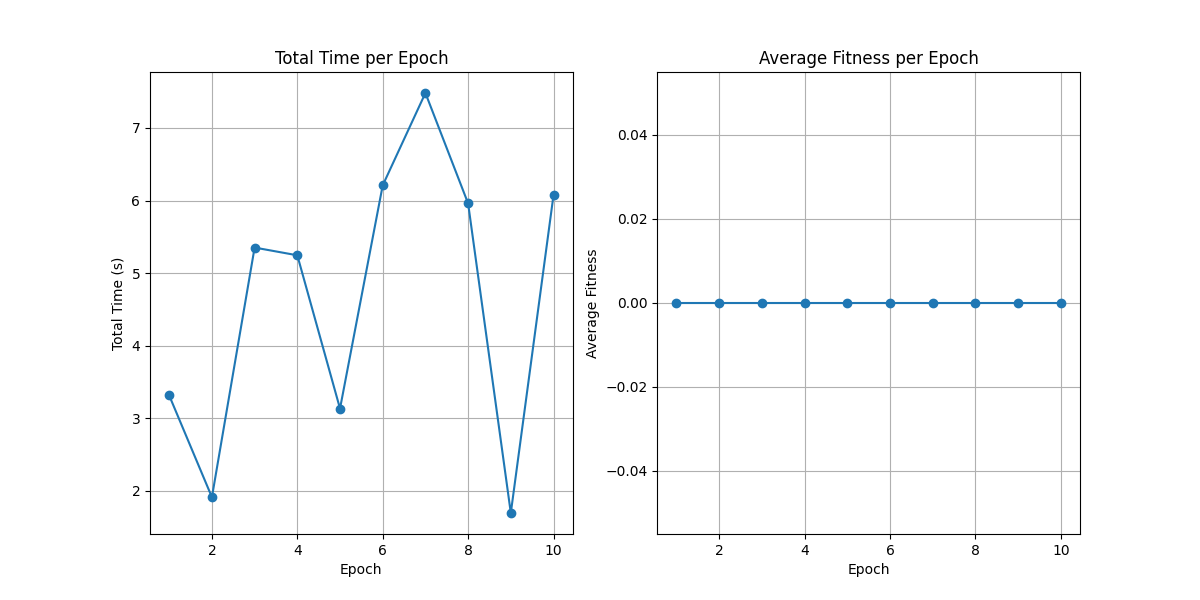
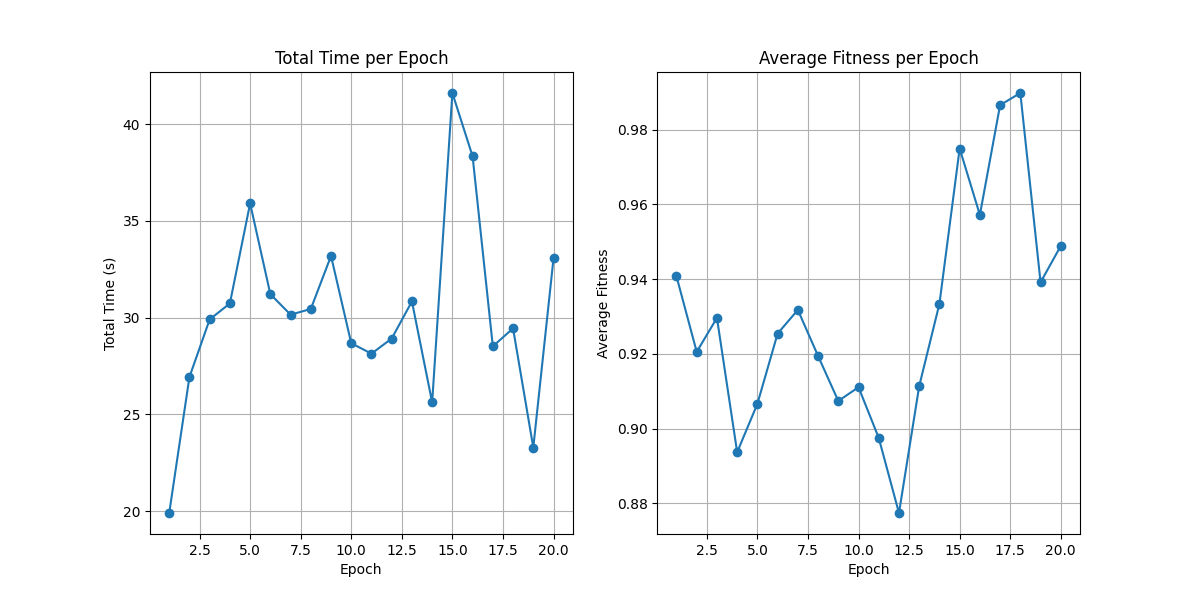
save fitness in result

diff --git a/main.py b/main.py
@@ -354,7 +354,7 @@ def delete_statement(chromosome, statement_id, statement):
 
 
 def mutate(chromosome):
-    w_mut = 0.06
+    w_mut = 0.1
     statement_count = chromosome.statement_count
     initial_statement_count = chromosome.initial_statement_count
     statements = chromosome.statements
@@ -448,7 +448,7 @@ def calculate_fitness(ast, problem_id, test_no, initial_prog):
     if similarity_percent == 1:
         result = {'fitness': 0, 'no_passed_tests': no_of_passed_tests}
     else:
-        result = {'fitness': percent_of_passed_tests + similarity_percent, 'no_passed_tests' : no_of_passed_tests}
+        result = {'fitness': (1+percent_of_passed_tests) * similarity_percent, 'no_passed_tests' : no_of_passed_tests}
     return result
 
 
@@ -532,7 +532,32 @@ def ag(submission_id, problem_id, program_path, population_size, no_epochs):
 
             offsprings.append(mutate(child1))
             offsprings.append(mutate(child2))
-
+#         textul = """int main() {
+#     int n, p, m, a[10001]={0}, b[10001]={0}, cont=0, x;
+#     scanf("%d%d", &n, &p);
+#     for (int i=1; i<=n; i++) {
+#         scanf("%d", &x);
+#         a[x]=a[x]+1;
+#     }
+#     scanf("%d", &m);
+#     for (int i=1; i<=m; i++) {
+#         scanf("%d", &x);
+#        	b[x]=b[x]+1;
+#     }
+#     for (int i=0; i<=10000; i++) {
+#         for (int j=0; j<=10000; j++) {
+#             if (i*j>=p)
+#             {
+#                 break;
+#             }
+#             cont+=a[i]*b[j];
+#         }
+#     }
+#     printf("%d", cont);
+#     return 0;
+# }"""
+#         if current_epoch==2:
+#             offsprings[0].ast=c_parser.CParser().parse(textul)
         for i in range(len(offsprings)):
             try:
                 offsprings[i].fitness = calculate_fitness(offsprings[i].ast, problem_id, 5, initial_prog)
@@ -563,6 +588,8 @@ def ag(submission_id, problem_id, program_path, population_size, no_epochs):
         average_time_per_epoch.append(elapsed_time)
         average_fitness_per_epoch.append(average_fitness / (len(new_population)))
         epochs.append(current_epoch)
+
+        print(str(current_epoch) + " "+str(len(new_population)))
 
         current_epoch += 1
 
@@ -607,9 +634,9 @@ if __name__ == "__main__":
     # final_C_patch = generator.visit(final_patch)
     # with open("./final_patch/"+str(submision_id)+".c", 'w') as f:
     #     f.write(final_C_patch)
-    for i in range(0,1):
+    for i in range(2, 10):
         submision_id = i
-        res= ag(submision_id, i+1, "problems/"+str(i)+".c", 30, 10)
+        res= ag(submision_id, i+1, "problems/"+str(i)+".c", 200, 20)
         final_patch = res['sol']
         fitness = res['fitness']
         generator = c_generator.CGenerator()

diff --git a/final_patch/3.c b/final_patch/3.c
@@ -1,3 +1,4 @@
+1.2148873653281096
 int main()
 {
   int v[1001];
@@ -9,7 +10,7 @@ int main()
   for (int i = 1; i <= n; i++)
     scanf("%d", &v[i]);
 
-  for (int i = 1; i <= n; i++)
+  for (int i = n; i < n; i++)
   {
     if ((i % 2) == 0)
     {
@@ -22,13 +23,14 @@ int main()
   {
     if ((v[i] % 2) == 0)
     {
-      poz2 = i;
+      poz1 = i;
+      s += v[i];
     }
   }
 
   for (int i = poz1; i <= poz2; i++)
   {
-    s += s;
+    i += s;
   }
 
   if (poz1 == (-1))

diff --git a/final_patch/9.c b/final_patch/9.c
@@ -1,3 +1,4 @@
+0.997698504027618
 int main()
 {
   int x;
@@ -24,7 +25,7 @@ int main()
       if ((a[i] % x) == 0)
       {
         k++;
-        v[k] = a[i];
+        v[k] = a[j];
       }
       i++;
     }
@@ -58,7 +59,7 @@ int main()
   {
     if ((b[j] % x) == 0)
     {
-      k++;
+      i++;
       v[k] = a[j];
     }
   }
@@ -66,7 +67,6 @@ int main()
   for (int i = 1; i <= k; i++)
     printf("%d ", v[i]);
 
-  return 0;
   return 0;
 }
 

diff --git a/final_patch/2.c b/final_patch/2.c
@@ -1,3 +1,4 @@
+1.1672727272727272
 int main()
 {
   int n;
@@ -12,13 +13,14 @@ int main()
   {
     scanf("%d", &x);
     a[x] = a[x] + 1;
+    b[x] = b[x] + 1;
   }
 
   scanf("%d", &m);
   for (int i = 1; i <= m; i++)
   {
     scanf("%d", &x);
-    b[x] = b[x] + 1;
+    b[x] = n;
   }
 
   for (int i = 0; i <= 10000; i++)
@@ -30,7 +32,6 @@ int main()
         cont += a[i] * b[j];
         break;
       }
-      j++;
       j++;
     }
 

diff --git a/final_patch/8.c b/final_patch/8.c
@@ -1,3 +1,4 @@
+1.3906458797327395
 int main()
 {
   int n;
@@ -14,14 +15,14 @@ int main()
     j = 1;
     while ((j <= n) && (si <= s))
     {
-      si = si + v[j];
+      si = si - v[j - 1];
       j++;
       if (v[i] > si)
         break;
     }
 
     j++;
-    si = si + v[j];
+    si = si - v[j - 1];
     if (si == s)
     {
       printf("%d %d", i, j - 2);

diff --git a/final_patch/5.c b/final_patch/5.c
@@ -1,3 +1,4 @@
+1.5934959349593498
 int main()
 {
   int n;
@@ -15,14 +16,14 @@ int main()
     {
       if (ok_par == 0)
       {
-        ok_par = 1;
+        ok_par = i;
       }
       if ((ok_par == 1) && (v[i] > prev))
       {
         ordonat = 0;
-        ok_par = 0;
+        ok_par = n;
       }
-      prev = 0;
+      prev = v[i];
     }
   }
 

diff --git a/final_patch/6.c b/final_patch/6.c
@@ -1,3 +1,4 @@
+5
 int main()
 {
   int n;
@@ -17,8 +18,9 @@ int main()
       nr_cif = 1;
     while (x != 0)
     {
-      nr_cif++;
+      i++;
       x = x / 10;
+      ok = x / 10;
     }
 
     if ((nr_cif % 2) == 1)
@@ -32,6 +34,5 @@ int main()
   else
     printf("NU");
   return 0;
-  ok = 1;
 }
 

diff --git a/final_patch/7.c b/final_patch/7.c
@@ -1,3 +1,4 @@
+0.997872340425532
 int main()
 {
   int n;
@@ -19,12 +20,12 @@ int main()
       v[n] = v[n + 1];
       for (int k = i; k <= n; k++)
       {
-        v[k] = v[k + 1];
+        v[n] = v[k + 1];
       }
 
       n--;
     }
-    n--;
+    i++;
   }
 
   for (int i = 1; i <= n; i++)

diff --git a/final_patch/4.c b/final_patch/4.c
@@ -1,3 +1,4 @@
+0.9978354978354979
 int main()
 {
   int n;
@@ -9,8 +10,7 @@ int main()
 
   int dr;
   int st;
-  dr = 1;
-  dr = 1;
+  dr = n;
   st = n;
   while (dr < st)
   {
